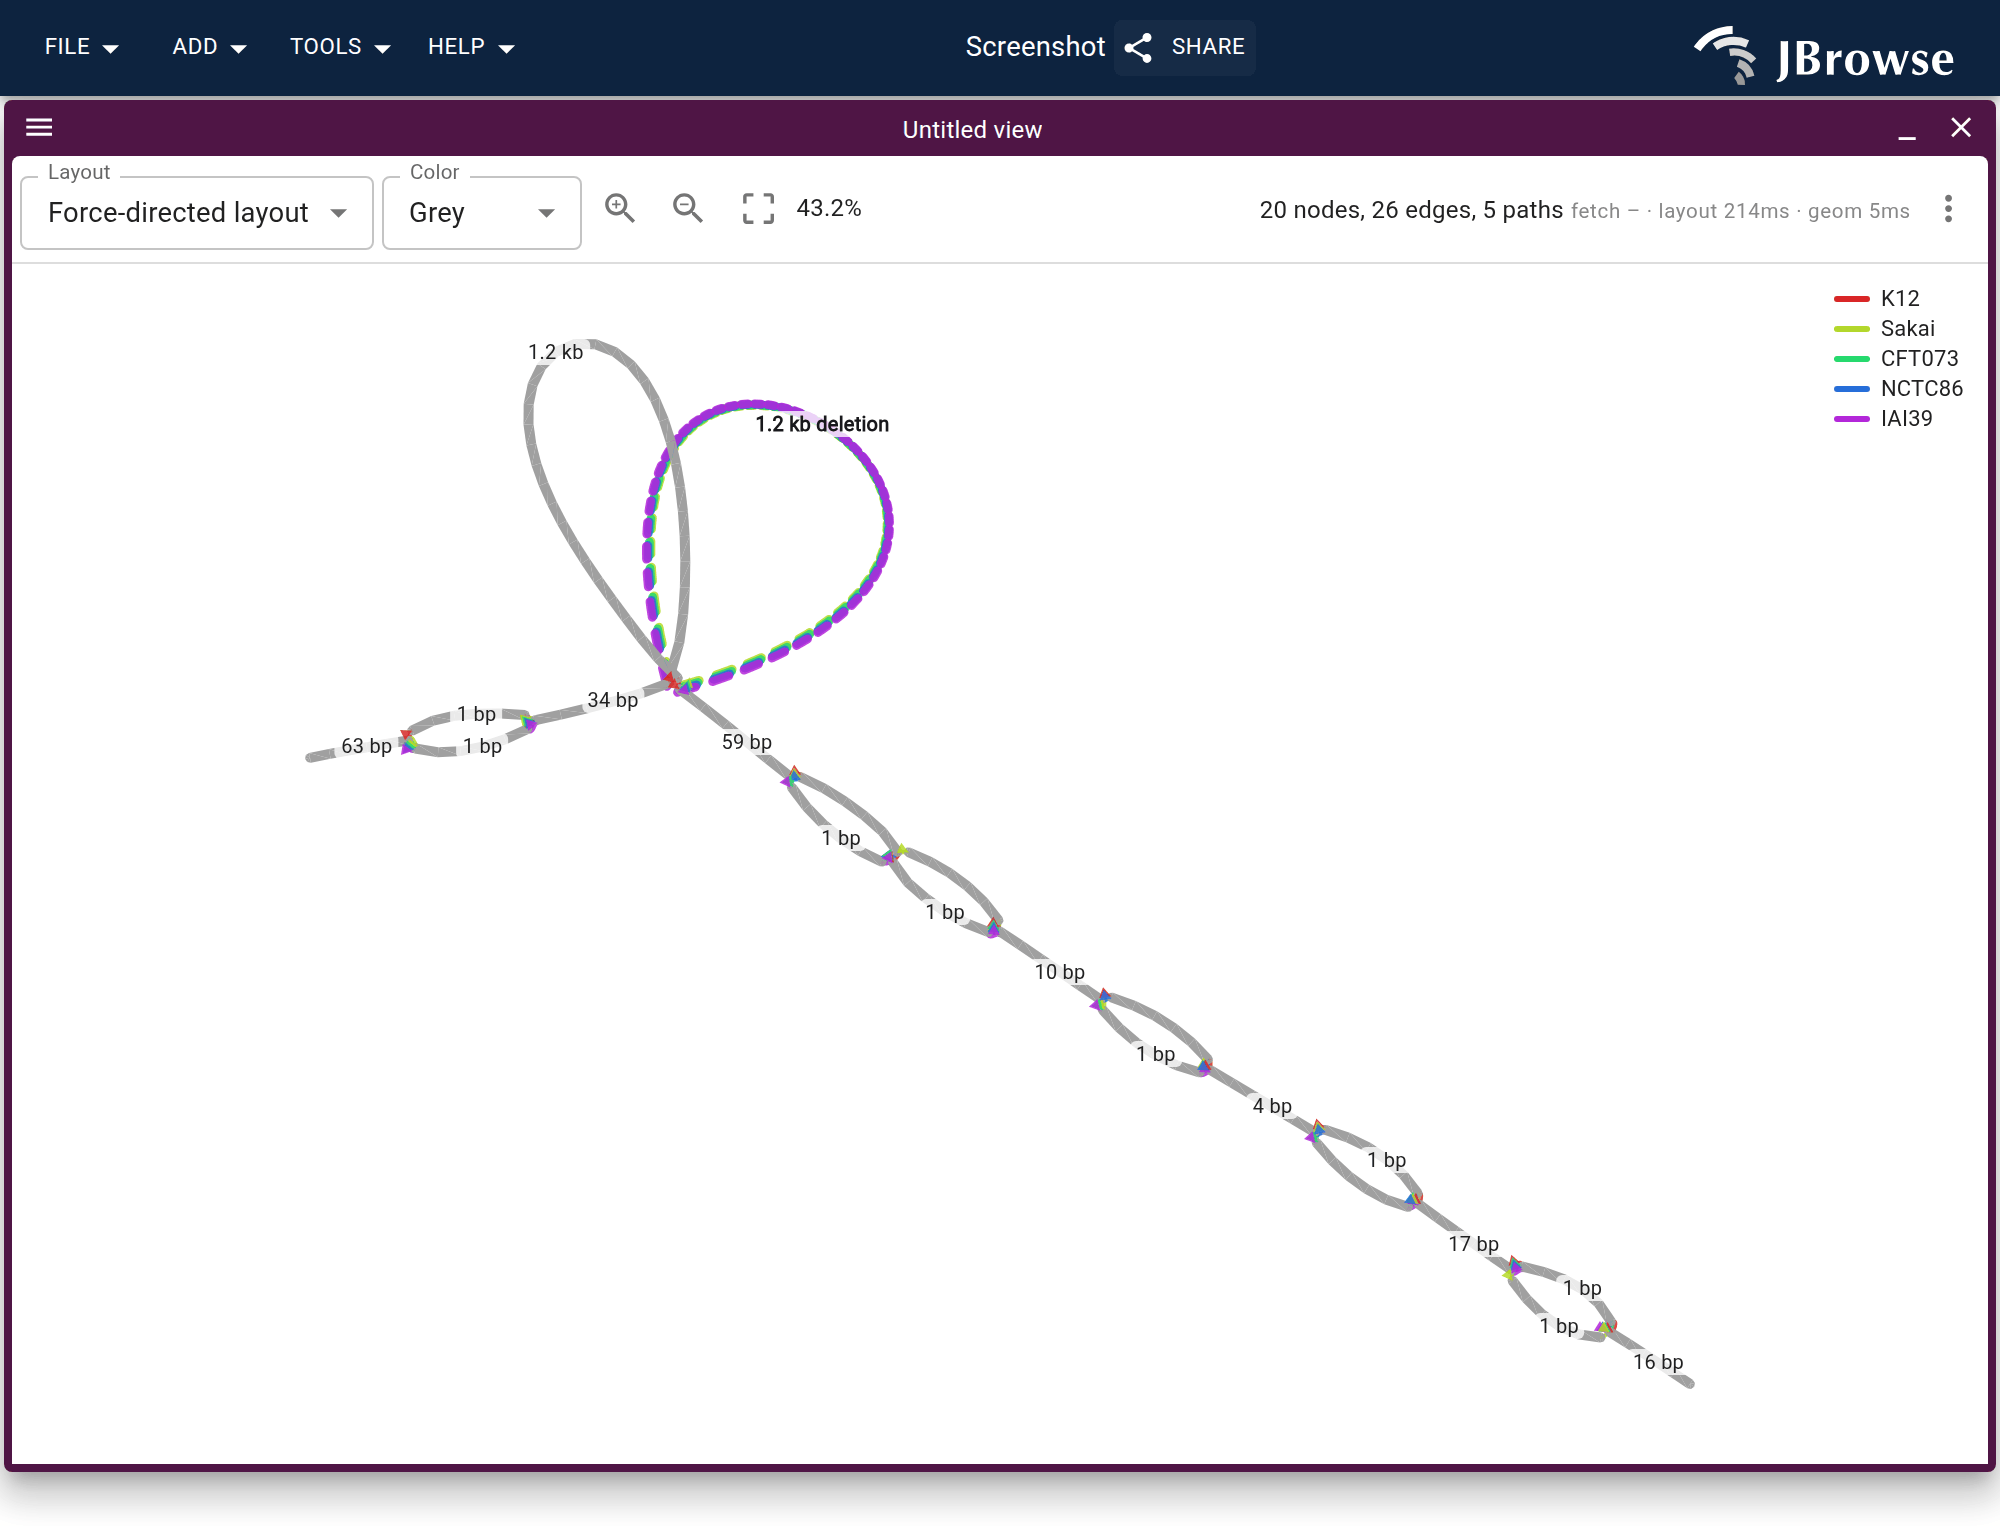
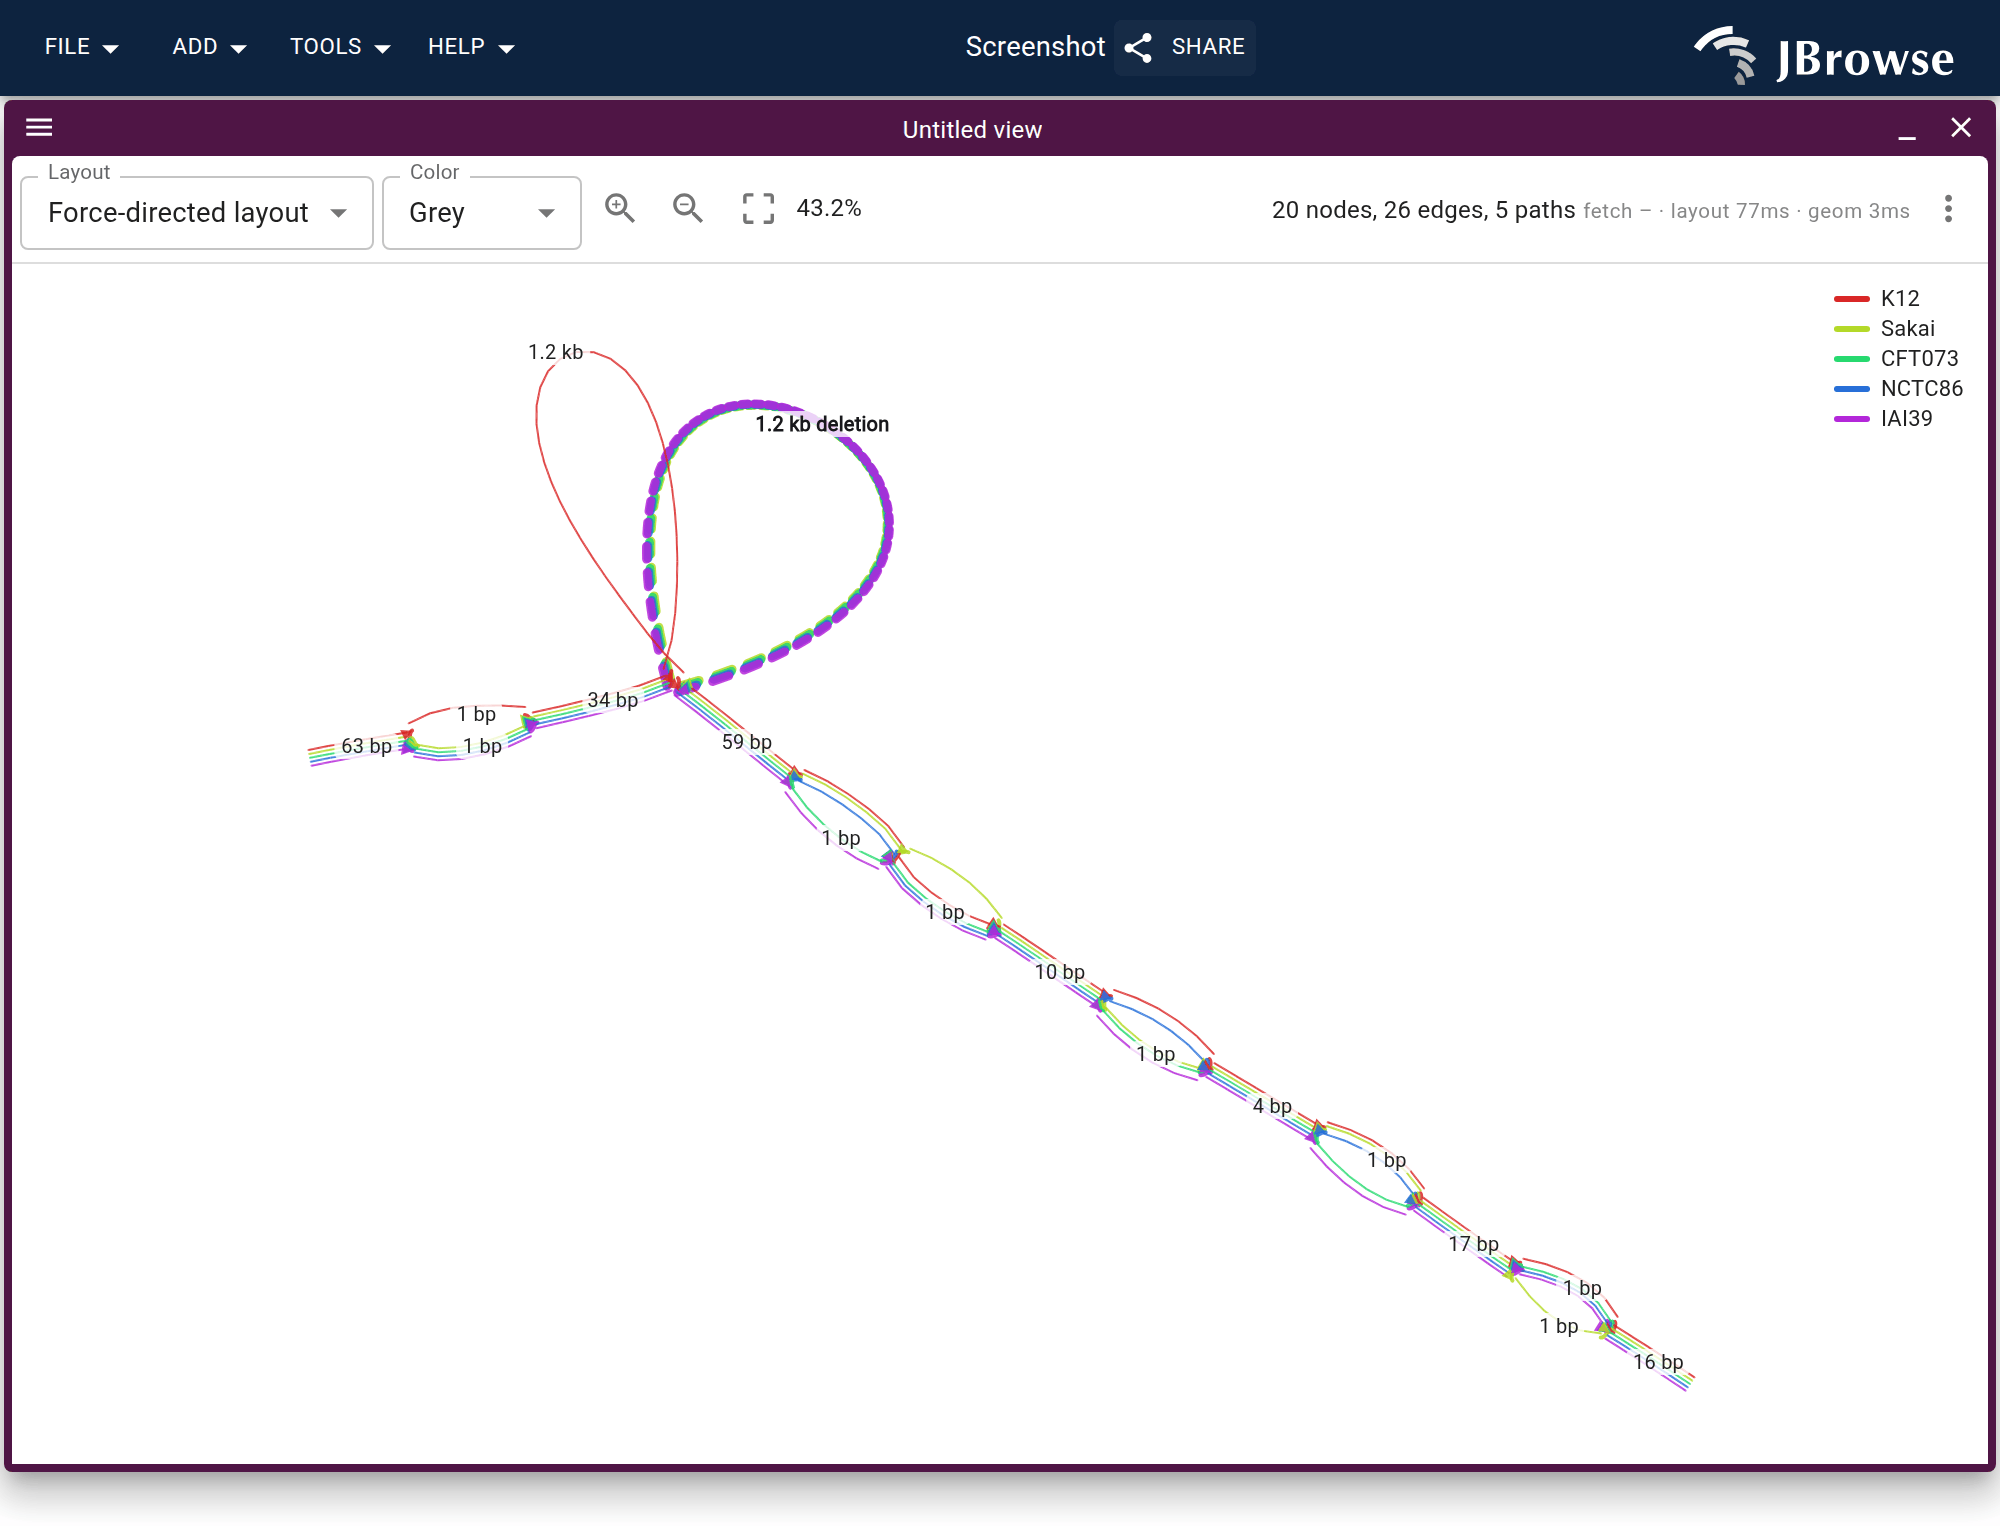
docs(pangenome): draw the haplotype paths along the nodes, and bump the pin
Publishes graphgenomeviewer 9ff482d262b2 and pins the three
test_data/graphgenomeview configs at it. The plugin change is
GMOD/jbrowse-plugin-graphgenomeview 20aa7f3: under drawPaths a node is split
lengthwise into one lane per path in the graph, in the legend's order, and a
path that does not visit it leaves its lane empty.

Screenshot review, twice, on pggb_haplotype_paths: "only deletion really shows
paths clearly, the edges between nodes are too small to see the paths ... even
coloring the length of the nodes using the per-sample colors". That reading was
right, and it was a plugin limit: drawPaths stroked edges only, so how many of a
graph's paths resolved was a function of how long the edge happened to be drawn.
The 1.2 kb deletion is one long edge and separated all five; a 1 bp SNP bubble
is an edge a few px long and showed a speck.

The figure now says its finding outright: the 1,199 bp IS5 arm is a single
K12-colored lane against a five-colour backbone, so "only K12 carries this" is
read off the node rather than inferred from the arc the other four take, and the
1 bp bubbles show which strain takes which side.

Only that figure is regenerated. `--filter` implies `--force`, so the sweep
rewrote all 31 pangenome PNGs; every other one came back 0.02-4% different by
raw `compare -metric AE` with the difference being nothing but glyph and edge
antialiasing outlines, which a bundle swap cannot explain, so they are reverted
[…]

diff --git a/website/scripts/specs/graph.ts b/website/scripts/specs/graph.ts
@@ -1868,14 +1868,18 @@ export const graphSpecs: ScreenshotSpec[] = [
           layoutMode: 'force',
           layoutQuality: 4,
           // A floor, where the sibling graph figures compress, and the two are
-          // not interchangeable. This one is about carriage rather than bubble
-          // shape, and carriage is drawn on EDGES as one offset stroke per path:
-          // the 1.2 kb deletion arc has to stay long for five ribbons to
-          // separate along it and for the one magenta IAI39 stroke to be the
-          // only thing on it. A floor lifts the 1 bp alleles and leaves that arc
-          // proportional; 'compress' pulls it towards the mean and the five
-          // strokes crowd into the colour pile-up drawPaths is prone to, which
-          // states the opposite of what the figure is for. Rendered both.
+          // not interchangeable. This one is about carriage, which is now drawn
+          // along the NODES as well: each is split into five lanes in the
+          // legend's order, and a strain that skips a node leaves its lane
+          // empty (review: "the edges between nodes are too small to see the
+          // paths ... even coloring the length of the nodes using the
+          // per-sample colors"). The 1,199 bp arm is a single K12 lane, which
+          // is the finding stated outright rather than inferred from the arc
+          // four strains take. A floor is still what keeps the 1 bp alleles
+          // from clamping to stubs whose lanes have no length to run along;
+          // 'compress' pulls the deletion arc towards the mean and the strokes
+          // on it crowd into the colour pile-up drawPaths is prone to. Rendered
+          // both.
           bubbleSpread: 'open',
           colorScheme: 'grey',
           referencePath: 'K12',

diff --git a/website/src/lib/spec-recipe/fields.ts b/website/src/lib/spec-recipe/fields.ts
@@ -487,8 +487,8 @@ export const viewFields: Record<string, FieldRecipe> = {
   drawPaths: value =>
     typeof value === 'boolean'
       ? {
-          path: `${GRAPH_SETTINGS} → Draw paths on edges (${value ? 'on' : 'off'})`,
-          note: 'Draws one stroke per P/W record across every edge it crosses, keyed by sample. Needs a GFA that states its paths: an rGFA and an indexed cut both carry segments and links only.',
+          path: `${GRAPH_SETTINGS} → Draw paths (${value ? 'on' : 'off'})`,
+          note: 'Colors every node and connector by the P/W records through it, one lane per path in legend order, so a path that skips a node leaves its lane empty. Needs a GFA that states its paths: an rGFA and an indexed cut both carry segments and links only.',
         }
       : undefined,
   // the select lists the GFA's own path names, so the figure's value IS the
